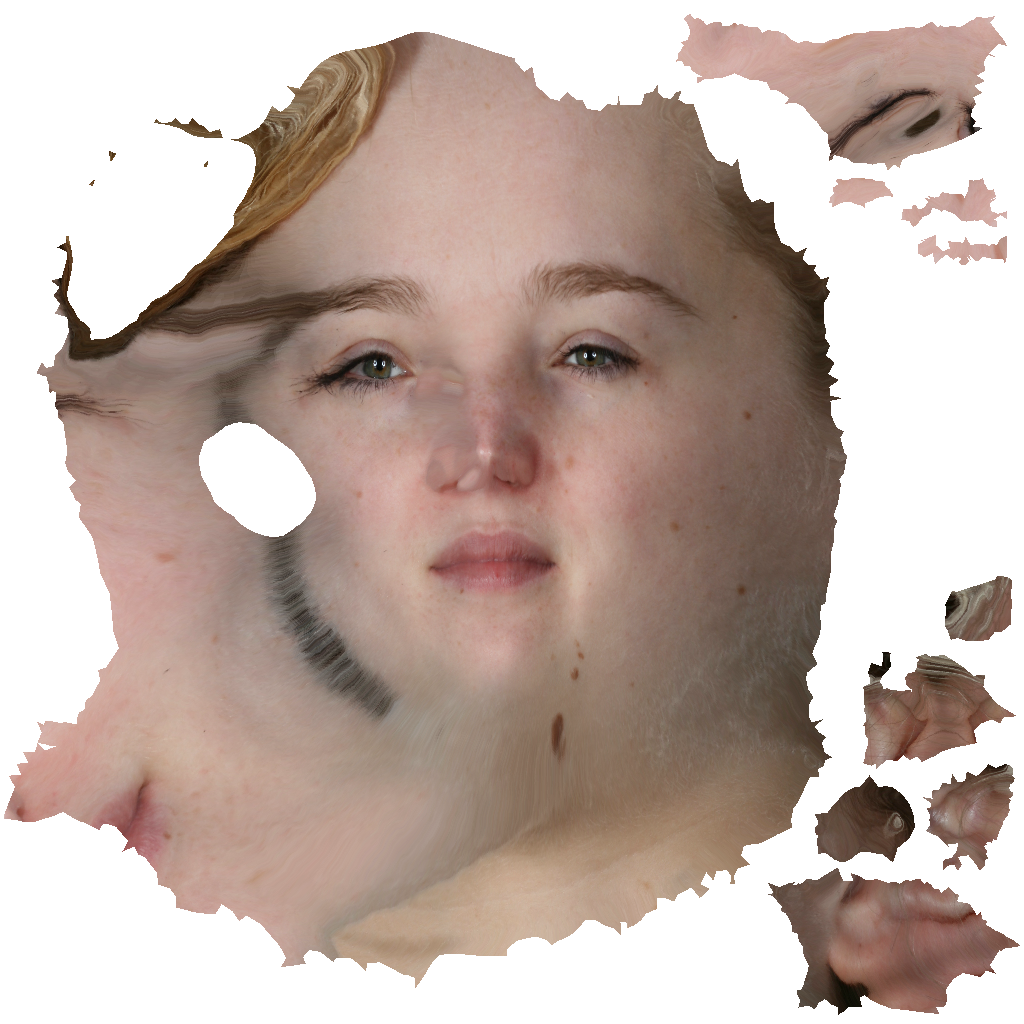
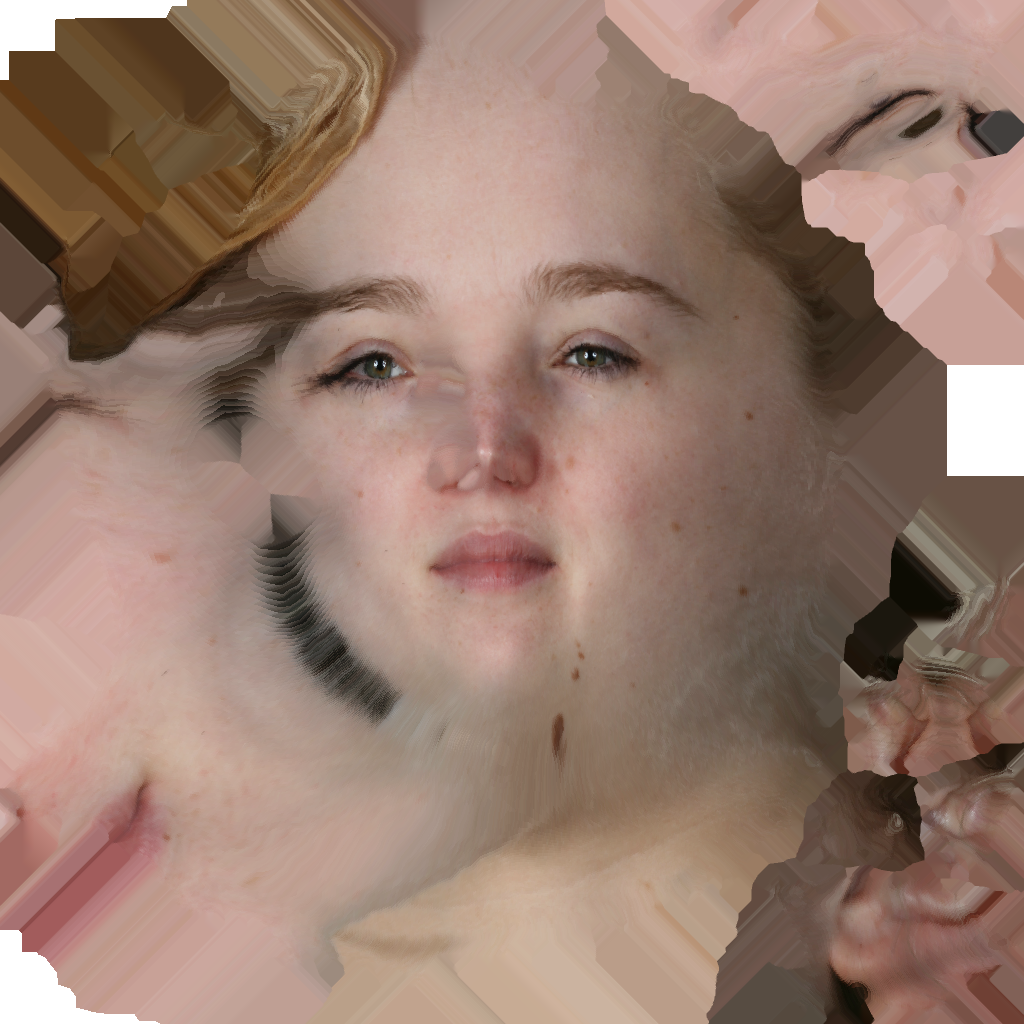
reduced the size of the sample images and added the property resolution to the camera

diff --git a/meshlab/src/meshlabplugins/edit_phototexturing/src/Camera.cpp b/meshlab/src/meshlabplugins/edit_phototexturing/src/Camera.cpp
@@ -5,6 +5,9 @@
 const QString Camera::XML_CAMERA = "camera";
 const QString Camera::XML_NAME = "name";
 const QString Camera::XML_IMAGE = "textureImage";
+const QString Camera::XML_RESOLUTION_X = "resolutionX";
+const QString Camera::XML_RESOLUTION_Y = "resolutionY";
+
 
 Camera::Camera(){
 	
@@ -28,6 +31,8 @@ void Camera::saveAsXml(QDomDocument* doc,QDomElement *root){
 	QDomElement xml_cam = doc->createElement(XML_CAMERA);
 	xml_cam.setAttribute(XML_NAME,name);
 	xml_cam.setAttribute(XML_IMAGE,textureImage);
+	xml_cam.setAttribute(XML_RESOLUTION_X,resolution[0]);
+	xml_cam.setAttribute(XML_RESOLUTION_Y,resolution[1]);
 	
 	calibration->saveAsXml(doc,&xml_cam);
 	
@@ -39,6 +44,8 @@ void Camera::loadFromXml(QDomElement *xml_cam){
 	
 	name = xml_cam->attribute(XML_NAME);
 	textureImage  = xml_cam->attribute(XML_IMAGE);
+	resolution[0] = xml_cam->attribute(XML_RESOLUTION_X).toInt();
+	resolution[1] = xml_cam->attribute(XML_RESOLUTION_Y).toInt();
 	
 	QDomElement xml_calib = xml_cam->firstChildElement(CameraCalibration::XML_CALIBRATION);
 	if (!xml_calib.isNull()){

diff --git a/meshlab/src/meshlabplugins/edit_phototexturing/src/Camera.h b/meshlab/src/meshlabplugins/edit_phototexturing/src/Camera.h
@@ -19,6 +19,9 @@ public:
 	static const QString XML_CAMERA;
 	static const QString XML_NAME;
 	static const QString XML_IMAGE;
+	static const QString XML_RESOLUTION_X;
+	static const QString XML_RESOLUTION_Y;
+	
 	
 	bool calculatedTextures;
 	QString name;
@@ -26,6 +29,7 @@ public:
 	QString textureImage;
 	CameraSensor sensor;
 	CameraCalibration *calibration;
+	int resolution[2];
 	
 	Camera();
 	~Camera();

diff --git a/meshlab/src/meshlabplugins/edit_phototexturing/src/PhotoTexturer.cpp b/meshlab/src/meshlabplugins/edit_phototexturing/src/PhotoTexturer.cpp
@@ -240,8 +240,8 @@ void PhotoTexturer::calculateMeshTextureForCamera(Camera* cam,MeshModel *m){
 			double u,v;
 			cam->calibration->getUVforPoint((*fi).V(i)->P()[0],(*fi).V(i)->P()[1],(*fi).V(i)->P()[2],&u,&v);
 
-			ft->u[i] = u/imgw;
-			ft->v[i] = 1.0-v/imgh;	
+			ft->u[i] = u/cam->resolution[0];
+			ft->v[i] = 1.0-v/cam->resolution[1];	
 		}
 		ft->textureindex =tindx;
 		ft->faceIndex = count;
